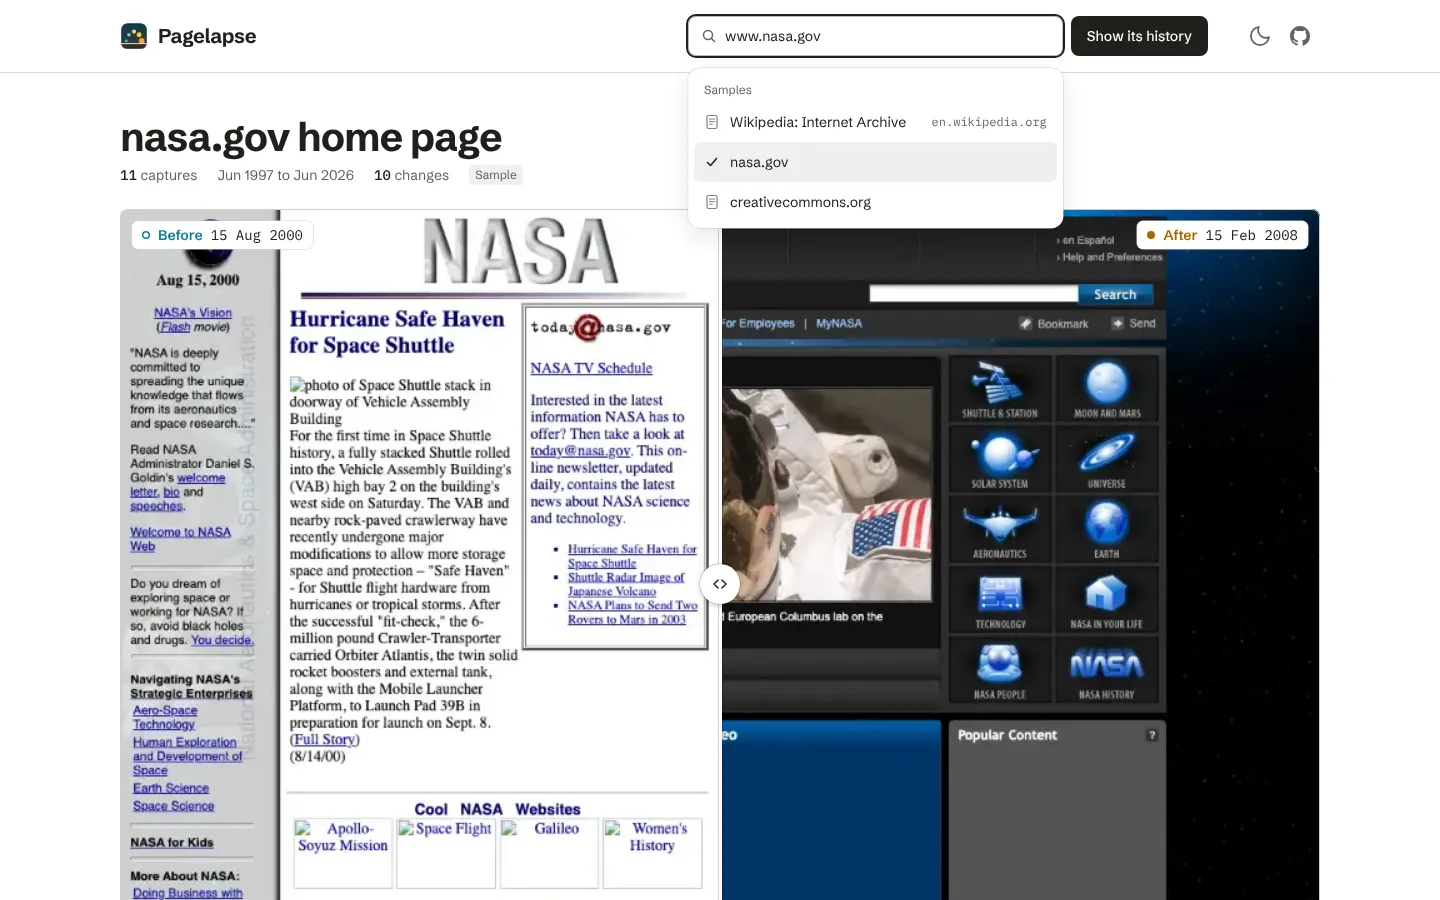
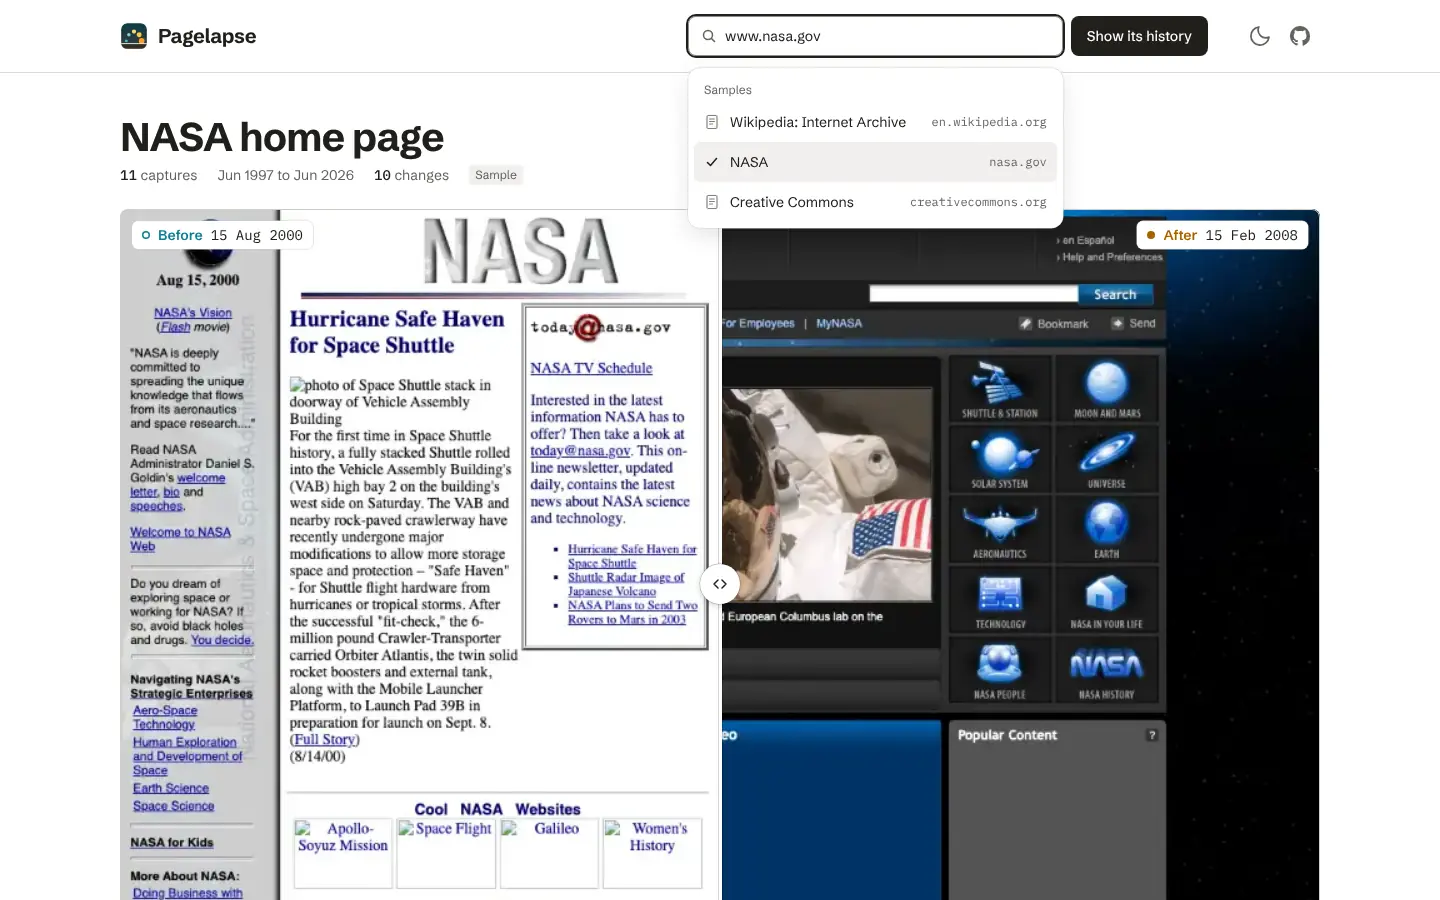
Name samples NASA and Creative Commons, fix live-visual timing race
At 40px a 320 or 360px screen cannot hold "creativecommons.org", so the
sheet title broke mid-word. The labels now read "NASA home page" and
"Creative Commons home page" (options "NASA" and "Creative Commons",
as in the v3 menu target). README hero and redesign-9 shots re-taken.

live-visual compared replay-request start times with Node's clock after
Playwright saw data-live=done, which lags the page; the page now stamps
the moment the run ends (1 failure in about 8 runs before, 0 in 12 after).

Claude-Session: https://claude.ai/code/session_019VgZE9PKQU1Vws4Q7MKNXK

diff --git a/src/samples/samples.test.ts b/src/samples/samples.test.ts
@@ -25,7 +25,7 @@ describe('committed samples', () => {
     expect(samples.map((s) => s.url)).toEqual(shown.map((c) => c.url));
     expect(samples.map((s) => s.name)).toEqual(shown.map((c) => sampleName(c.label)));
     // Today's options, in order.
-    expect(samples.map((s) => s.name)).toEqual(['Wikipedia: Internet Archive', 'nasa.gov', 'creativecommons.org']);
+    expect(samples.map((s) => s.name)).toEqual(['Wikipedia: Internet Archive', 'NASA', 'Creative Commons']);
     expect(config[0]!.id).toBe('wikipedia-internet-archive');
     expect(defaultEntry.id).toBe('wikipedia-internet-archive');
     expect(DECK_SAMPLE).toBe(defaultEntry.id);
@@ -38,12 +38,12 @@ describe('committed samples', () => {
   it('never offers an entry without a recorded fixture, and offers one as soon as it is recorded', () => {
     const entries = [
       { id: 'a', label: 'a.example home page', url: 'https://a.example/' },
-      { id: 'nasa', label: 'nasa.gov home page', url: 'https://www.nasa.gov/' },
+      { id: 'nasa', label: 'NASA home page', url: 'https://www.nasa.gov/' },
       { id: 'b', label: 'B', url: 'https://b.example/' },
     ];
     expect(recorded(entries, { './a.json': 1, './b.json': 1 }).map((c) => c.id)).toEqual(['a', 'b']);
     expect(recorded(entries, { './a.json': 1, './nasa.json': 1, './b.json': 1 }).map((c) => c.id)).toEqual(['a', 'nasa', 'b']);
-    expect(sampleName('nasa.gov home page')).toBe('nasa.gov');
+    expect(sampleName('NASA home page')).toBe('NASA');
     // The real config: NASA and Creative Commons carry their licences and money-figure filters, and are recorded, so offered.
     for (const id of ['nasa', 'creative-commons']) {
       expect(config.some((c) => c.id === id && c.license && c.attribution && c.dropBlocks && c.visualRedact)).toBe(true);

diff --git a/scripts/smoke-live.ts b/scripts/smoke-live.ts
@@ -653,6 +653,15 @@ export const liveFlows: readonly Flow[] = [
       await openReady(page, baseUrl);
       await sleep(500);
       if (api.frames.length) throw new Error(`${api.frames.length} Archive requests on the first view`);
+      // The page stamps the moment the run ends: Playwright's polling sees it later, after the first frame may have started.
+      await page.evaluate(() => {
+        const w = window as unknown as { __liveDone?: number };
+        new MutationObserver((_, o) => {
+          if (!document.querySelector('[data-live="done"]')) return;
+          w.__liveDone = Date.now();
+          o.disconnect();
+        }).observe(document.body, { subtree: true, attributes: true, attributeFilter: ['data-live'], childList: true });
+      });
       const input = page.getByRole('combobox', { name: 'Page address' });
       await input.fill('creativecommons.org');
       await input.press('Enter');
@@ -660,7 +669,7 @@ export const liveFlows: readonly Flow[] = [
       const hold = await expectText(page, '.vp-hold', /^Loads after the run, or pick a change$/);
       if (!(await page.locator('.lf .sil').isVisible())) throw new Error('no silhouette while the run holds the frame');
       await page.locator('[data-live="done"]').waitFor({ timeout: 30_000 });
-      const done = Date.now();
+      const done = await page.evaluate(() => (window as unknown as { __liveDone?: number }).__liveDone ?? Date.now());
       const during = api.frames.filter((f) => f.start < done).length;
       if (during) throw new Error(`${during} replay requests while the run was fetching, expected 0`);
       await page.locator('.lf iframe[data-loaded]:not([data-hidden])').waitFor({ timeout: 5000 });

diff --git a/src/samples/index.ts b/src/samples/index.ts
@@ -30,7 +30,7 @@ const FIXTURES = import.meta.glob<{ default: unknown }>(['./*.json', '!./samples
 export const recorded = <C extends SampleConfig>(entries: readonly C[], fixtures: Record<string, unknown>): C[] =>
   entries.filter((c) => `./${c.id}.json` in fixtures);
 
-/** The short name an option shows: the label without " home page" (`nasa.gov`, `Wikipedia: Internet Archive`). */
+/** The short name an option shows: the label without " home page" (`NASA`, `Wikipedia: Internet Archive`). */
 export const sampleName = (label: string) => label.replace(/ home page$/, '');
 
 /** Registry of the built-in samples that are recorded, in samples.config.json order; each loads lazily, once. */

diff --git a/src/app/visual/visualState.ts b/src/app/visual/visualState.ts
@@ -124,7 +124,7 @@ export function showingText(captures: readonly string[], e: Pair, at: string, tr
   return `capture ${frameNo(captures.indexOf(at))}, ${formatTimestampLong(at)}${trivial ? ', trivial edit' : ''}`;
 }
 
-/** Alt text of the pane's picture: `nasa.gov home page as captured 15 February 2008 (After), top of page`. */
+/** Alt text of the pane's picture: `NASA home page as captured 15 February 2008 (After), top of page`. */
 export const shotAlt = (label: string, e: Pair, at: string, what = 'top of page') => {
   const side = sideOf(e, at);
   return `${label} as captured ${formatTimestampLong(at)}${side ? ` (${SIDE_WORD[side]})` : ''}, ${what}`;

diff --git a/src/app/visual/VisualPane.tsx b/src/app/visual/VisualPane.tsx
@@ -11,7 +11,7 @@ import { useFramePool } from './useFramePool.ts';
 import { type CaptureView, MODES, type Mode, type Side, captureForChange, frameNo, shotAlt, sideOf } from './visualState.ts';
 
 interface Props {
-  /** The page, for alt text: `nasa.gov home page`. */
+  /** The page, for alt text: `NASA home page`. */
   label: string;
   /** Every capture, oldest first (frame numbers). */
   captures: readonly string[];

diff --git a/examples/README.md b/examples/README.md
@@ -24,7 +24,7 @@ Open it:
 - [2022-02-02 → 2023-03-26 in Slider](https://pagelapse.geekplux.com/?sample=wikipedia-internet-archive&change=20220202204805-20230326224104&view=slider): the 2022 design arrives.
 - [2024-03-16 → 2025-05-02 in Side by side](https://pagelapse.geekplux.com/?sample=wikipedia-internet-archive&change=20240316020238-20250502083649&view=side): the cyberattacks section.
 
-### nasa.gov home page (1997–2026)
+### NASA home page (1997–2026)
 
 ![The NASA home page as captured in February 2008: a dark starfield design with the NASA insignia, a spacewalk photo under "Atlantis Astronauts Set for Friday Spacewalk" and a grid of topic tiles](../public/samples/nasa/20080215055318-9eba8132.thumb.webp)
 
@@ -41,7 +41,7 @@ Open it:
 - [2000-08-15 → 2008-02-15 in Slider](https://pagelapse.geekplux.com/?sample=nasa&change=20000815052806-20080215055318&view=slider): the dark redesign arrives, what the sample opens on.
 - [2023-09-29 → 2026-04-13 in Side by side](https://pagelapse.geekplux.com/?sample=nasa&change=20230929171030-20260413235549&view=side): the Psyche mission makes way for "Welcome Home".
 
-### creativecommons.org home page (2009–2026)
+### Creative Commons home page (2009–2026)
 
 ![The Creative Commons home page as captured in October 2023: "Better sharing, brighter future" in large black type beside a video still of the CC logo](../public/samples/creative-commons/20231019221042-0b01a563.thumb.webp)
 

diff --git a/docs/DECISIONS.md b/docs/DECISIONS.md
@@ -133,4 +133,4 @@ Record every non-trivial decision here: date, decision, alternatives considered,
 | 2026-10-25 | Picture floor `MIN_PICTURED` lowered from 90% to 85% of captures | Re-record until 90% | NASA 2010–2012 and CC failures are archive-side; 85% still leaves every featured pair pictured |
 | 2026-10-25 | `record-visuals.ts` falls back to Chrome's macOS default path | Require `CHROME_PATH` | Fewer commands to paste on Sean's Mac, whose paste guard blocked long ones |
 | 2026-10-25 | Footer says live AI summaries are capped per day (audit thread request); the JSX points at `DAILY_CAP` | No mention | Visitors who hit the cap should know why and that samples still work |
-| 2026-10-25 | Sheet titles get `<wbr>` after each dot so a host such as creativecommons.org breaks at the dot on a 320px screen | `overflow-wrap: anywhere` only | Mid-word breaks read badly; `anywhere` stays as the fallback |
+| 2026-10-25 | Sample labels read "NASA home page" and "Creative Commons home page" (options "NASA", "Creative Commons", as in the v3 menu target); sheet titles also get `<wbr>` after each dot, so a dotted host breaks at a dot when a part fits | Keep host labels; a smaller title on phones | At 40px "creativecommons.org" cannot fit 320 or 360px and broke mid-word; a fifth font size breaks the UI rules; `overflow-wrap: anywhere` stays for long live hosts |

diff --git a/docs/DESIGN.md b/docs/DESIGN.md
@@ -77,6 +77,6 @@ New controls go where the user already means to choose (the address menu, the co
 
 ## Samples
 
-Wikipedia: Internet Archive is the default and the hero deck. The options come from `src/samples/samples.config.json`, in its order, and only entries with a recorded fixture are offered: a hero option, an address-menu item or a `?sample=` link to an unrecorded entry never appears (the link opens the default). Today the options are Wikipedia, nasa.gov and creativecommons.org, in that order.
+Wikipedia: Internet Archive is the default and the hero deck. The options come from `src/samples/samples.config.json`, in its order, and only entries with a recorded fixture are offered: a hero option, an address-menu item or a `?sample=` link to an unrecorded entry never appears (the link opens the default). Today the options are Wikipedia, NASA and Creative Commons, in that order.
 
 NASA (nasa.gov, US government work) and Creative Commons (creativecommons.org, CC BY 4.0) replaced git-scm.com and rust-lang.org on 2026-10-25: all three samples are open-licensed or public, with the same money-figure filtering in text and pictures. NASA opens on its 2000 to 2008 redesign, Creative Commons on its 2022 to 2023 one. Recording needs network access to the archives ([EXTENDING.md](EXTENDING.md#add-a-sample-text-and-pictures) has the steps).

diff --git a/README.md b/README.md
@@ -21,7 +21,7 @@ git clone https://github.com/geekplux/pagelapse.git && cd pagelapse
 pnpm i && pnpm dev
 ```
 
-Open the address `pnpm dev` prints (usually http://localhost:5173). The first view deals the captures of the built-in Wikipedia sample. Open a card or a sample (Wikipedia, nasa.gov or creativecommons.org): their text and pictures ship with the app, so they need no network, no account and no key. Or paste any URL to look it up live in the Internet Archive. The [examples gallery](examples/README.md) has deep links to the best changes and five pages to try.
+Open the address `pnpm dev` prints (usually http://localhost:5173). The first view deals the captures of the built-in Wikipedia sample. Open a card or a sample (Wikipedia, NASA or Creative Commons): their text and pictures ship with the app, so they need no network, no account and no key. Or paste any URL to look it up live in the Internet Archive. The [examples gallery](examples/README.md) has deep links to the best changes and five pages to try.
 
 ## Features
 
